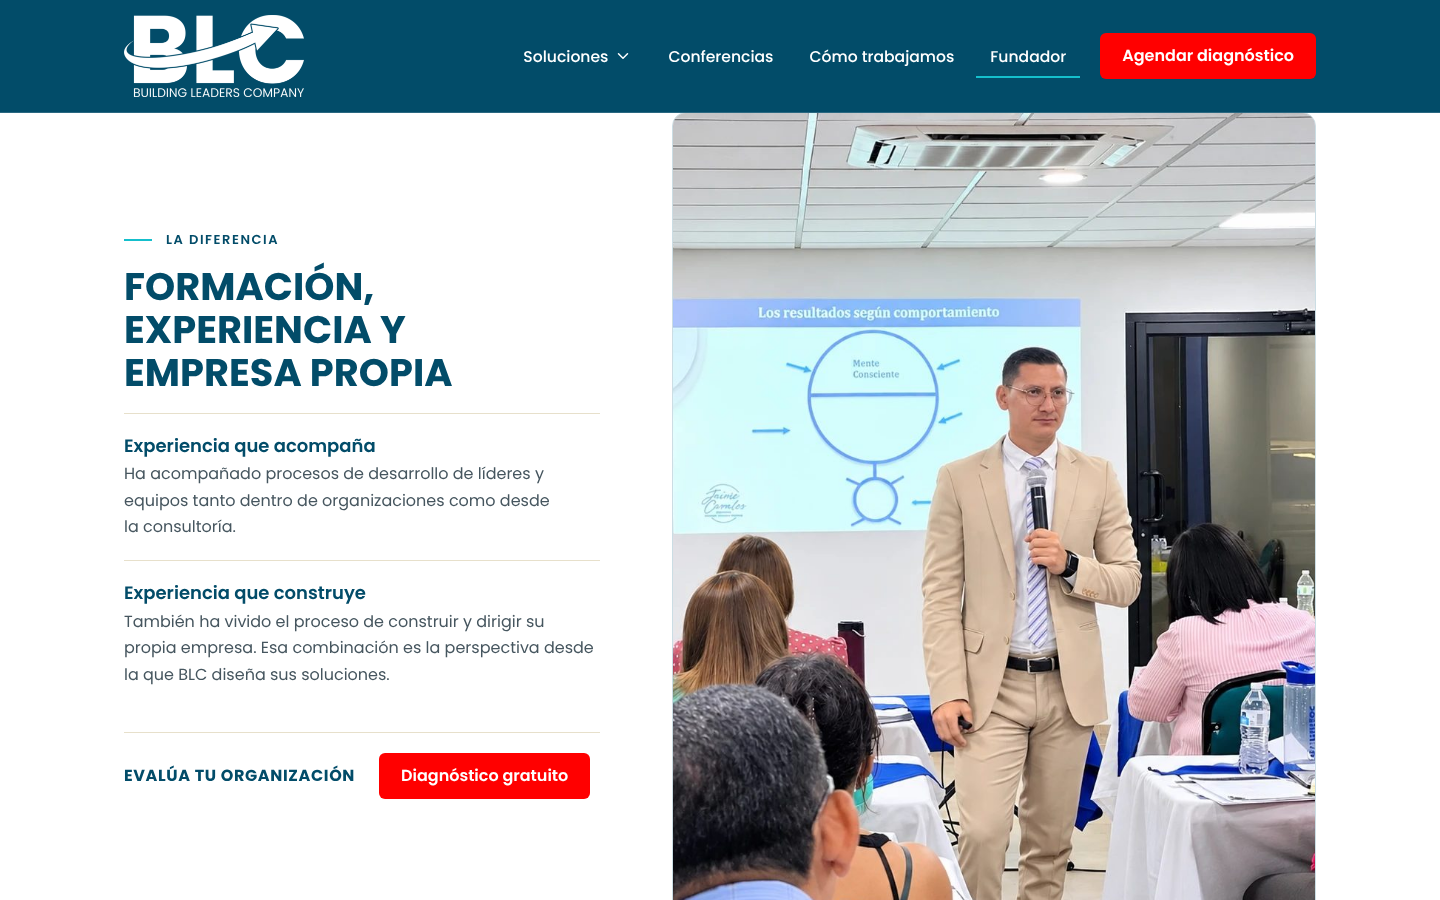
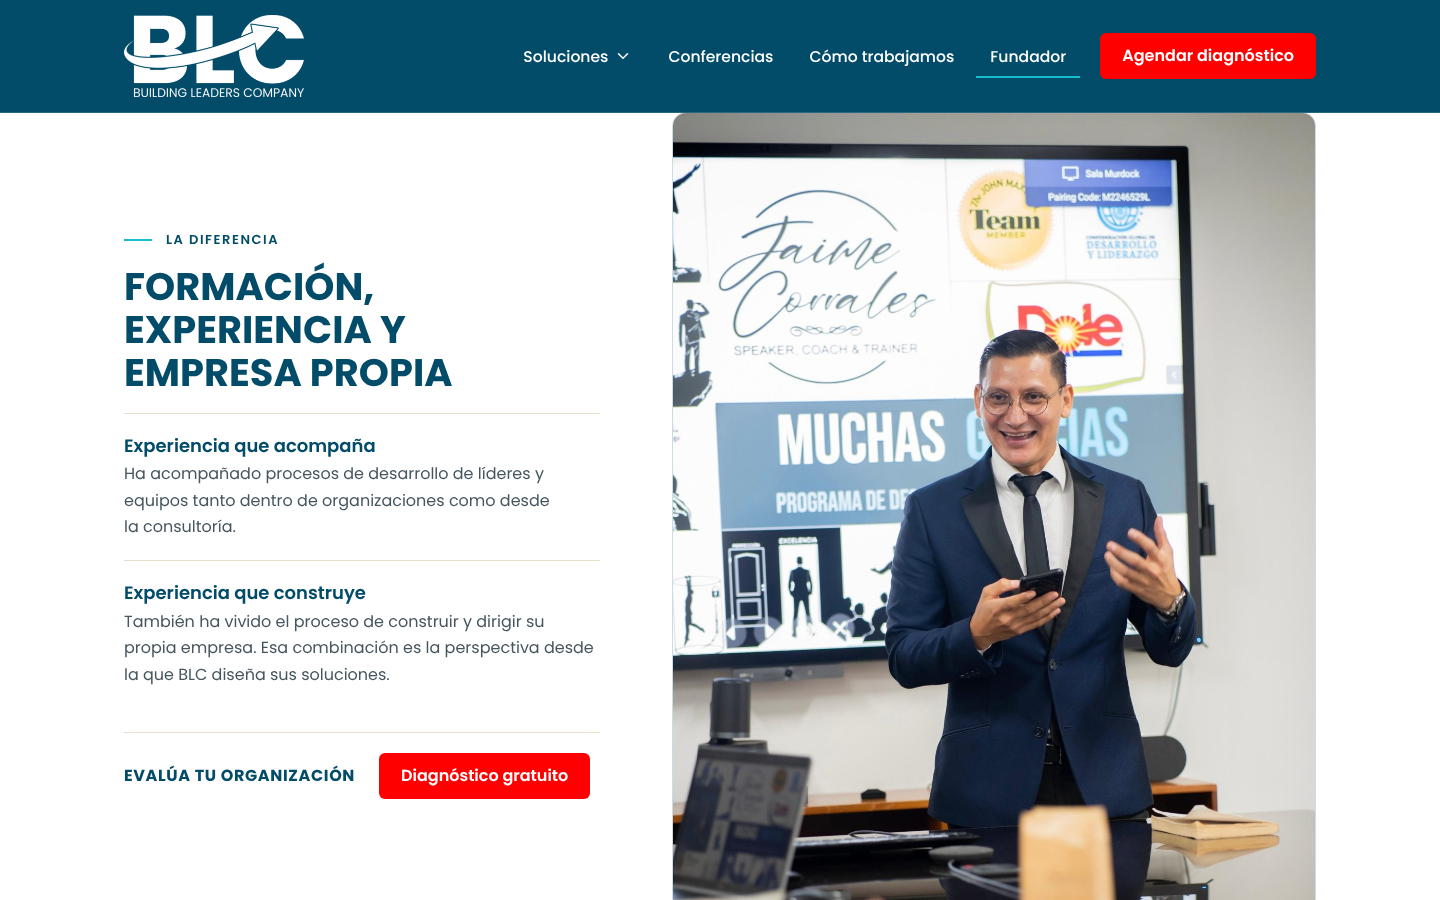
Agrega foto propia para La diferencia en la página del fundador
jaime-diferencia.jpg reemplaza a jaime-escenario.jpg en esa sección para no
repetir la foto de la portada de Conferencias.

Claude-Session: https://claude.ai/code/session_01WCj9xs9Gz3GYaHb4eT4hNZ

diff --git a/src/fundador.html b/src/fundador.html
@@ -114,8 +114,8 @@
     <section class="section">
       <div class="container feature-grid feature-grid--reverse">
         <figure class="photo-slot photo-slot--portrait">
-          <img src="/assets/fotos/jaime-escenario.jpg" alt="Jaime Corrales en una conferencia" width="1600" height="1000" loading="lazy" onerror="this.remove()">
-          <span>Jaime con líderes o en escenario<br><small>assets/fotos/jaime-escenario.jpg</small></span>
+          <img src="/assets/fotos/jaime-diferencia.jpg" alt="Jaime Corrales al cierre de un programa de desarrollo" width="1600" height="1564" loading="lazy" onerror="this.remove()">
+          <span>Jaime con líderes o en escenario<br><small>assets/fotos/jaime-diferencia.jpg</small></span>
         </figure>
         <div>
           <p class="kicker">La diferencia</p>

diff --git a/src/styles.css b/src/styles.css
@@ -398,3 +398,4 @@ a { color: var(--petroleo); text-underline-offset: .2em; }
 .photo-slot img[src*="taller-grupo"] { object-position: 50% 60%; }
 .photo-slot img[src*="conferencia-publico"] { object-position: 50% 45%; }
 @media (max-width: 600px) { .photo-slot--banner { aspect-ratio: 4 / 3; } }
+.photo-slot img[src*="jaime-diferencia"] { object-position: 58% 30%; }
